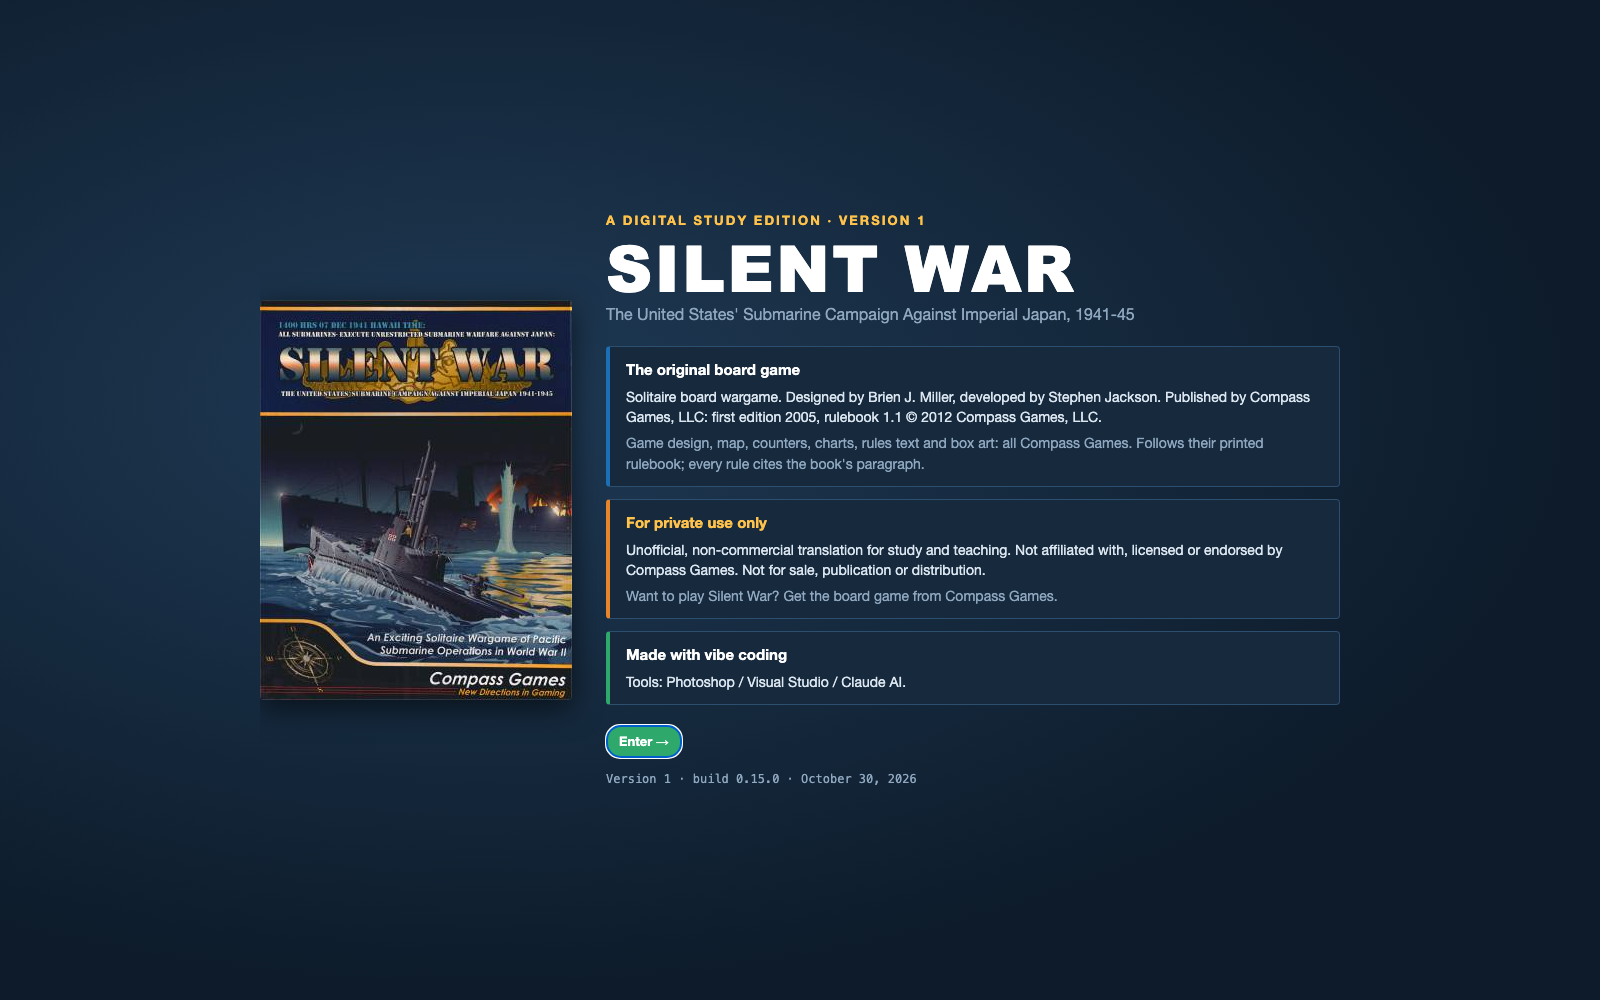
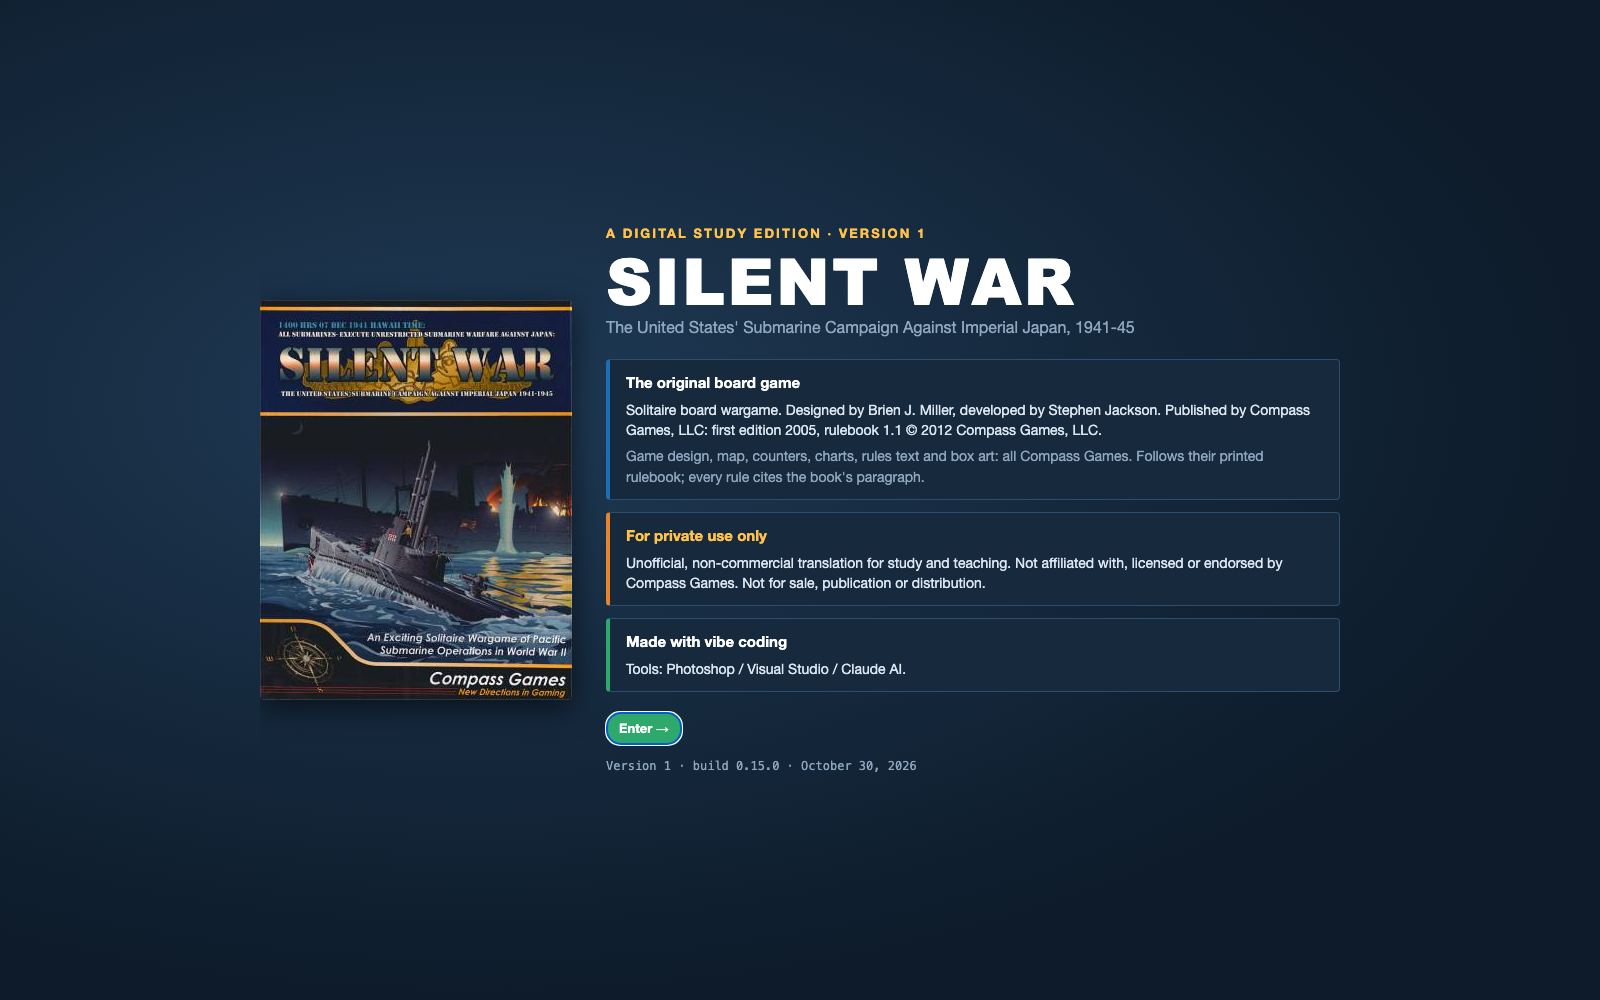
Title screen: drop the buy line

Changed region(s): [[0.375, 0.217, 0.8125, 0.806], [0.5, 0.744, 0.5625, 0.806]]

diff --git a/apps/game/swui.js b/apps/game/swui.js
@@ -3211,7 +3211,7 @@
           el('section', { class: 'ts-box' }, [
             el('h2', { text: T.original.head }), el('p', { text: T.original.text }), el('p', { class: 'ts-dim', text: T.original.owns })]),
           el('section', { class: 'ts-box ts-private' }, [
-            el('h2', { text: T.privacy.head }), el('p', { text: T.privacy.text }), el('p', { class: 'ts-dim', text: T.privacy.buy })]),
+            el('h2', { text: T.privacy.head }), el('p', { text: T.privacy.text })]),
           el('section', { class: 'ts-box ts-vibe' }, [
             el('h2', { text: T.vibe.head }), el('p', { text: T.vibe.text })]),
           el('div', { class: 'pal-buttons' }, [el('button', { type: 'button', class: 'helm suggest ts-go', text: 'Enter →', onclick: close })]),

diff --git a/apps/game/data/sw_intro.js b/apps/game/data/sw_intro.js
@@ -122,8 +122,7 @@
     privacy: {
       head: 'For private use only',
       text: 'Unofficial, non-commercial translation for study and teaching. Not affiliated with, licensed or endorsed by ' +
-            'Compass Games. Not for sale, publication or distribution.',
-      buy: 'Want to play Silent War? Get the board game from Compass Games.'
+            'Compass Games. Not for sale, publication or distribution.'
     },
     vibe: {
       head: 'Made with vibe coding',
